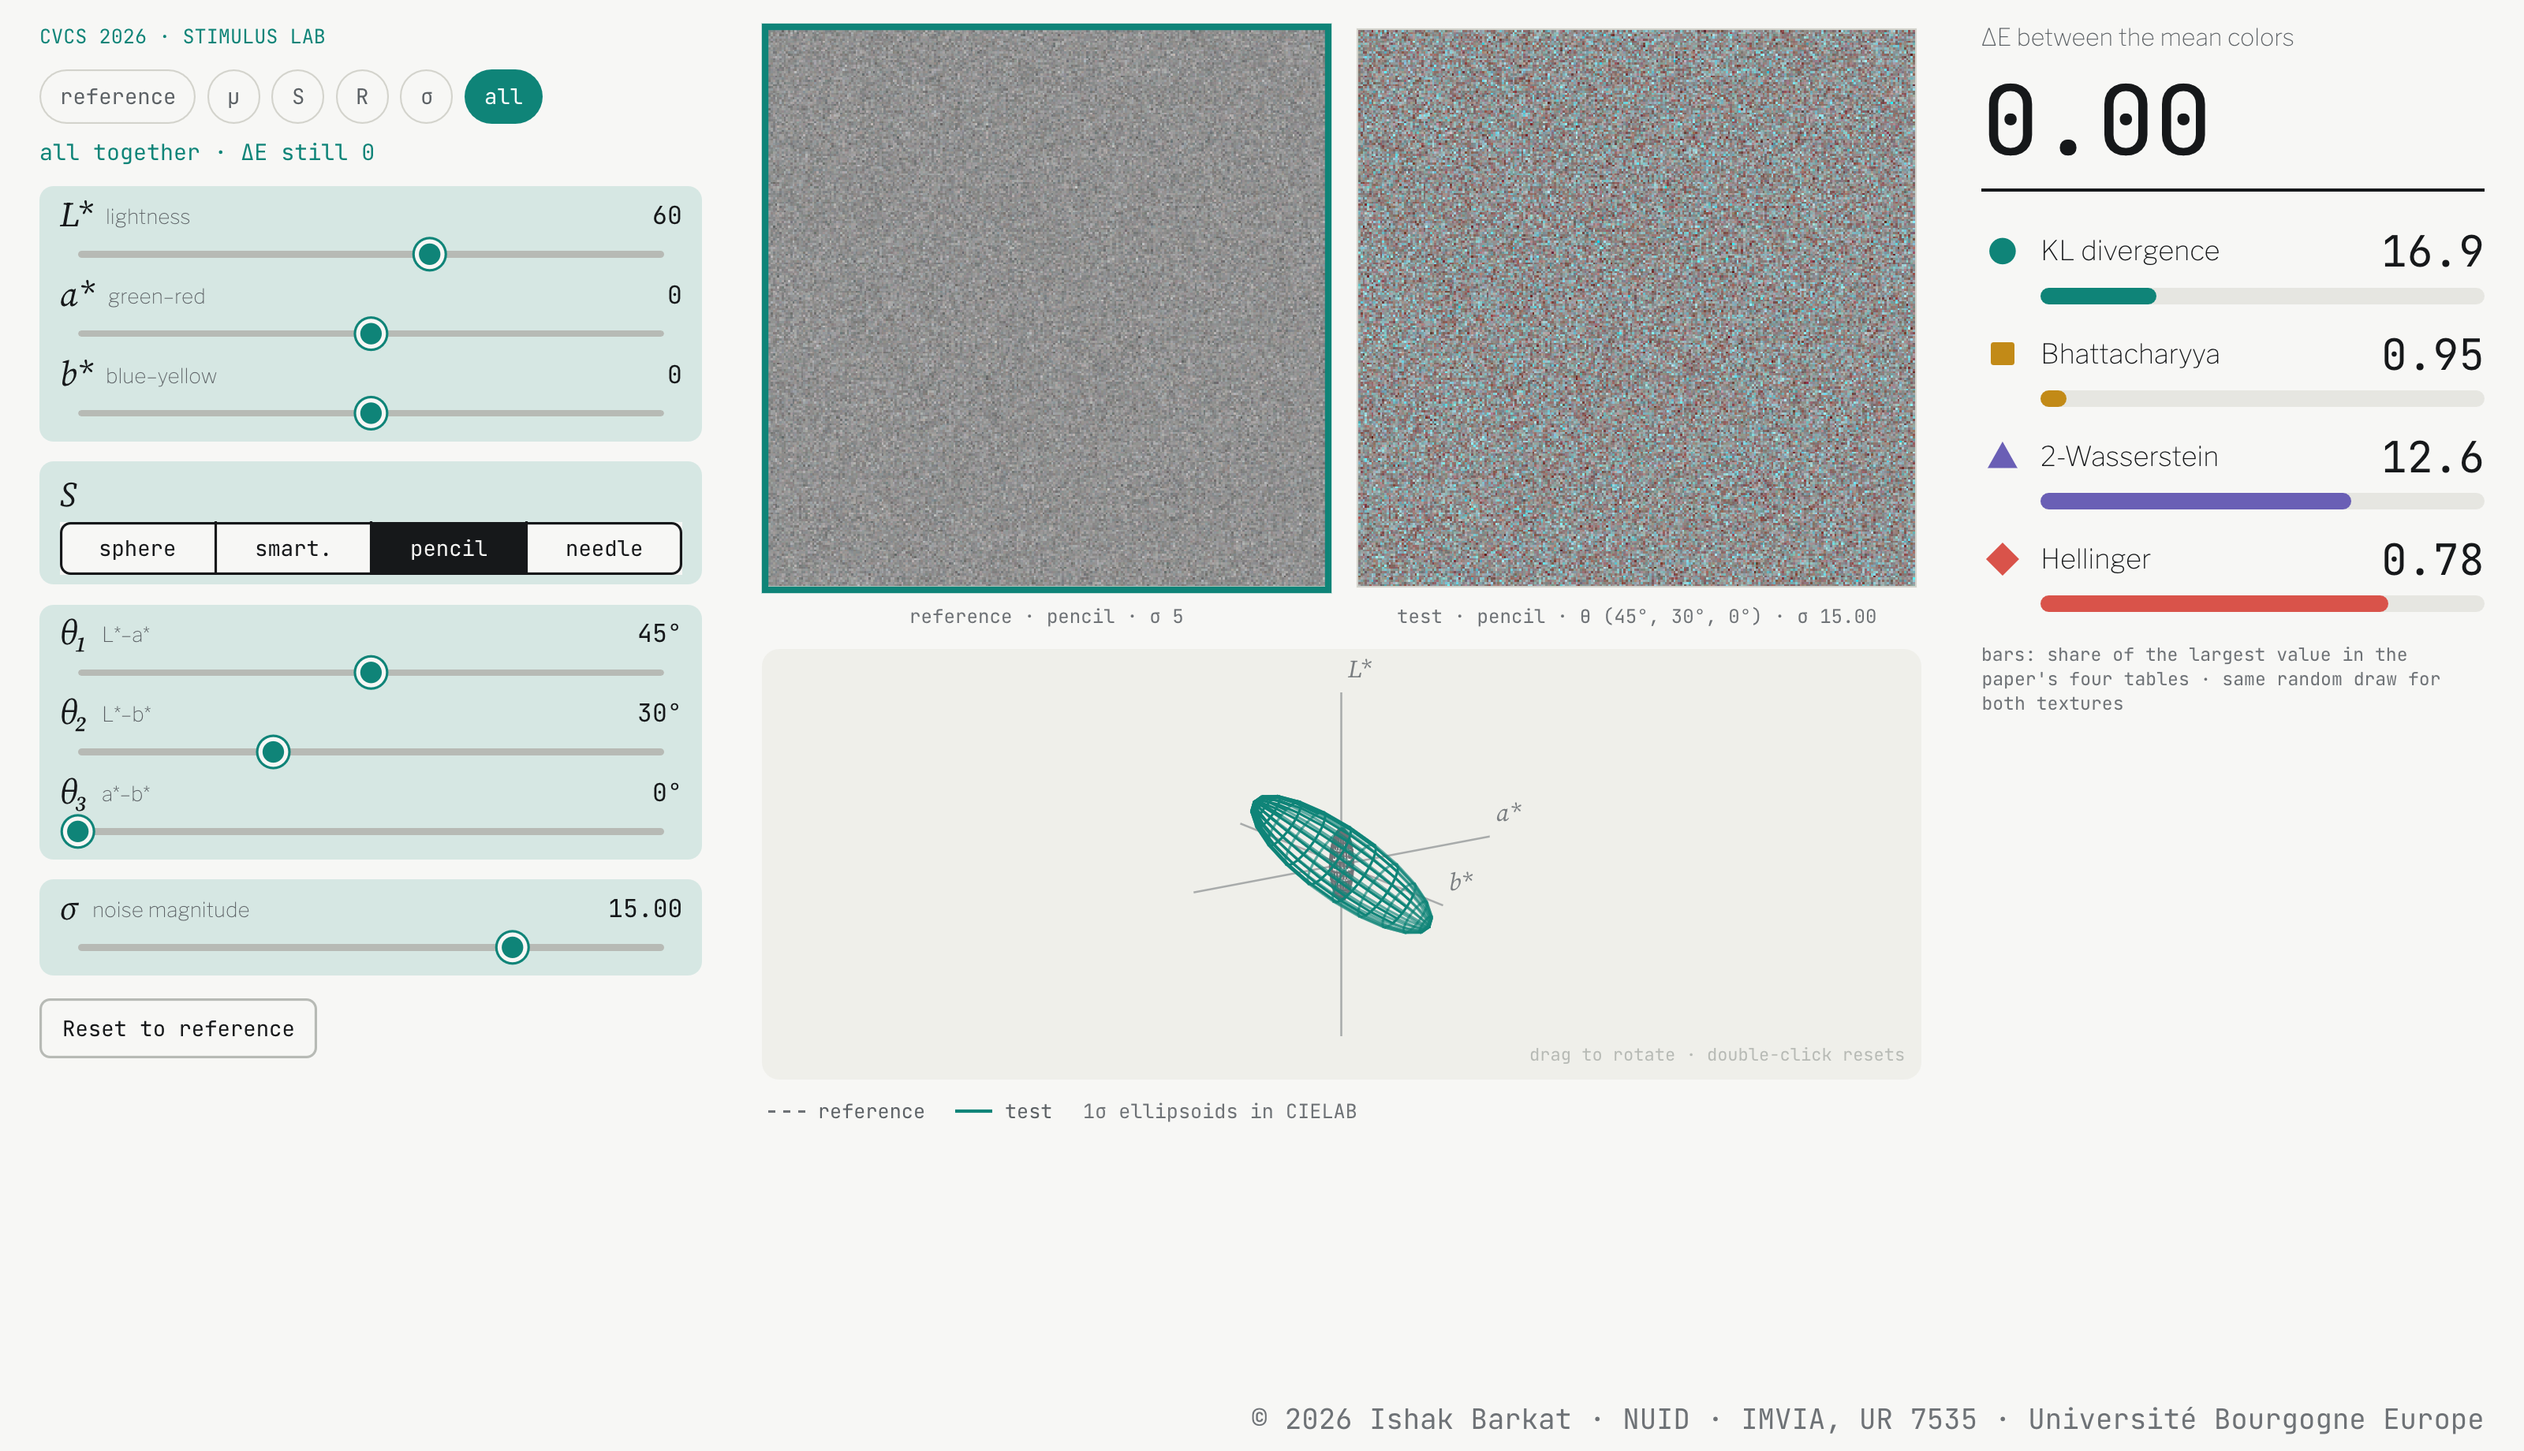
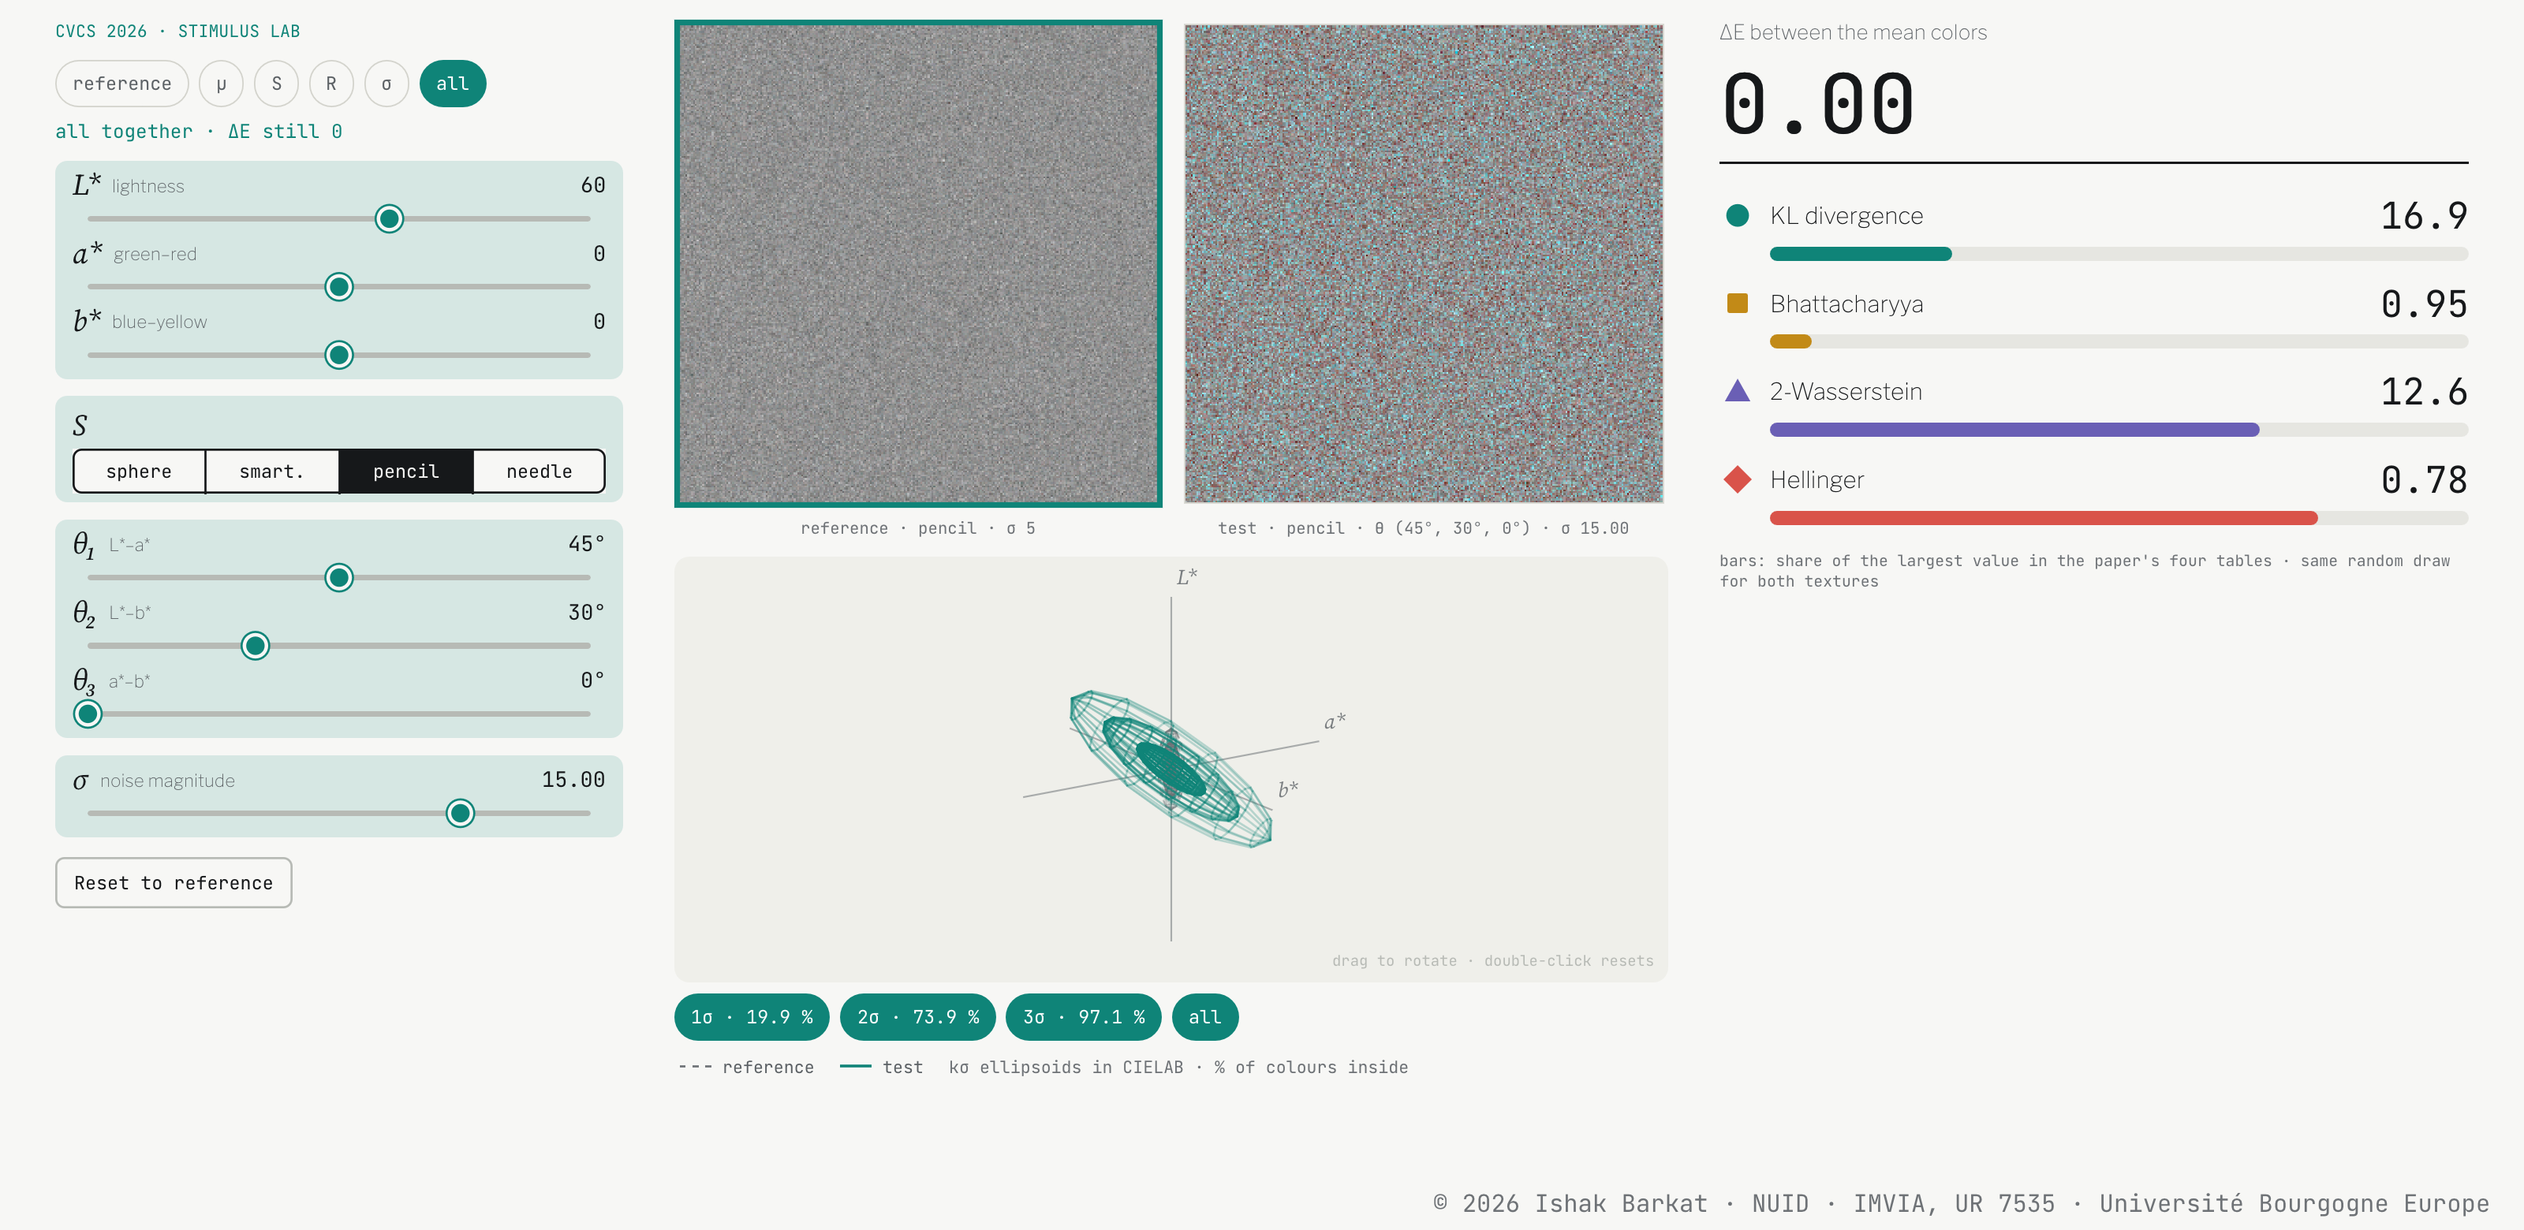
README: 1σ/2σ/3σ ellipsoids with coverage, shape note, new screenshot

diff --git a/README.md b/README.md
@@ -5,14 +5,14 @@ Interactive companion app to the CVCS 2026 paper
 by Ishak Barkat, Hermine Chatoux and Jean-Baptiste Thomas (Université Bourgogne Europe · IMVIA, UR 7535).
 
 A non-uniform color surface is modelled as a 3D Gaussian distribution in CIELAB, controlled by four parameters:
-mean color **μ** = (L\*, a\*, b\*), shape **S**, orientation **R** (three angles θ₁, θ₂, θ₃) and scale **σ**.
-For any setting the app renders the test texture next to a fixed grey reference, draws both 1σ ellipsoids in 3D,
-and reports in real time the ΔE between the mean colors together with four distribution distances:
+mean color **μ** = (L\*, a\*, b\*), shape **S** (limited to 4 different shapes), orientation **R** (three angles θ₁, θ₂, θ₃) and scale **σ**.
+For any setting the app renders the test texture next to a fixed grey reference, draws their 1σ, 2σ and 3σ
+ellipsoids in 3D, and reports in real time the ΔE between the mean colors together with four distribution distances:
 Kullback–Leibler, Bhattacharyya, 2-Wasserstein and Hellinger.
 
 ![The 3D Gaussian Stimulus Generator window](img/ui.png)
 
-*Parameter controls (left), reference and test textures with their 1σ ellipsoids in CIELAB (centre), ΔE and the four
+*Parameter controls (left), reference and test textures with their 1σ, 2σ, 3σ ellipsoids in CIELAB (centre), ΔE and the four
 distances (right). Here shape, orientation and scale all change while ΔE stays at 0.*
 
 | reference | μ: a\* = 18 | S: needle | R: θ₁ = 45° | σ: 5 → 15 |
@@ -38,6 +38,9 @@ Remote Desktop or in a virtual machine.
 - Step chips (reference, μ, S, R, σ, all) or the **← / →** keys walk through each parameter.
 - Sliders: L\*, a\*, b\*; shape (sphere, smarties, pencil, needle); θ₁ (L\*–a\*), θ₂ (L\*–b\*), θ₃ (a\*–b\*); σ.
 - Drag the 3D view to rotate it; double-click to reset.
+- Under the 3D view, toggle the 1σ, 2σ and 3σ ellipsoids (or **all**). For a 3D Gaussian they contain
+  **19.9 %**, **73.9 %** and **97.1 %** of the colors (chi-square distribution with 3 degrees of freedom, not the
+  1D 68 / 95 / 99.7 % rule).
 
 ## Licence
 
